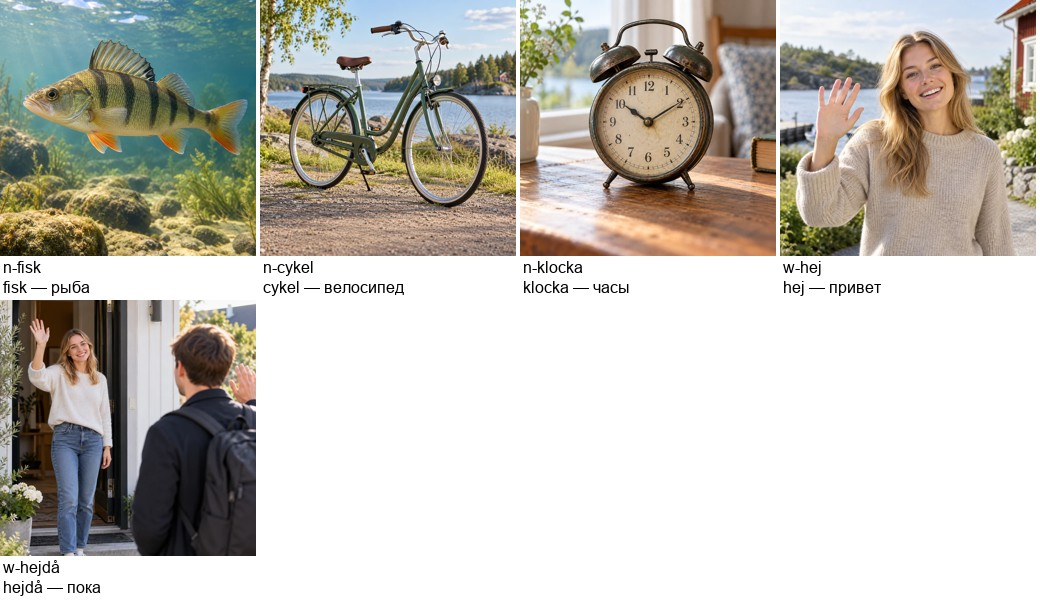
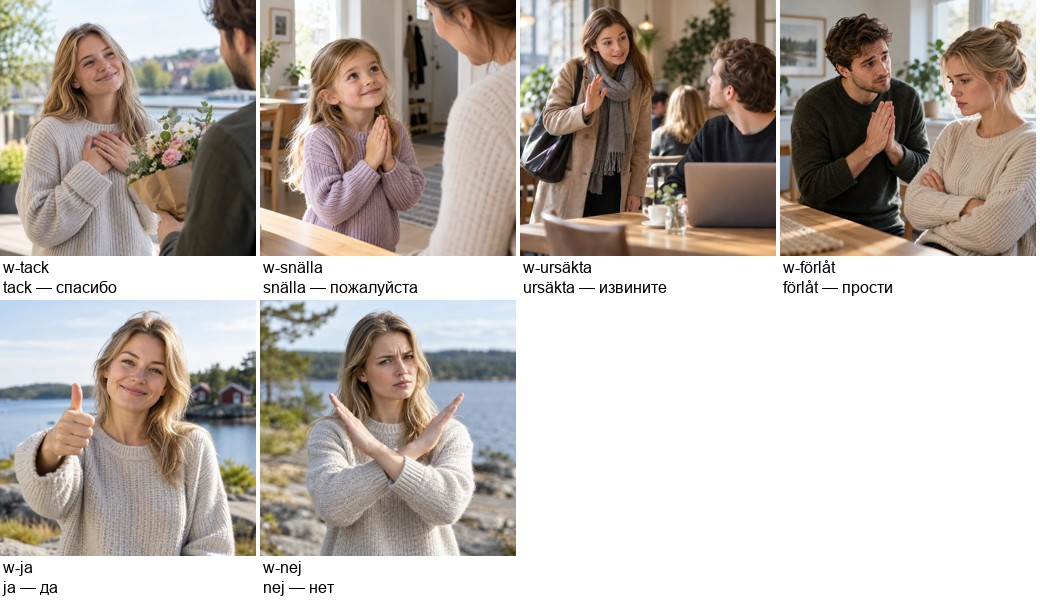
upd img

diff --git a/flashcard-media.js b/flashcard-media.js
@@ -99,7 +99,13 @@
   "n-cykel": "./assets/flashcards/n-cykel.webp",
   "n-klocka": "./assets/flashcards/n-klocka.webp",
   "w-hej": "./assets/flashcards/w-hej.webp",
-  "w-hejdå": "./assets/flashcards/w-hejdå.webp"
+  "w-hejdå": "./assets/flashcards/w-hejdå.webp",
+  "w-tack": "./assets/flashcards/w-tack.webp",
+  "w-snälla": "./assets/flashcards/w-snälla.webp",
+  "w-ursäkta": "./assets/flashcards/w-ursäkta.webp",
+  "w-förlåt": "./assets/flashcards/w-förlåt.webp",
+  "w-ja": "./assets/flashcards/w-ja.webp",
+  "w-nej": "./assets/flashcards/w-nej.webp"
 });
  window.svFlashPhotoForWord = word => photos[word?.id] || null;
 })();
